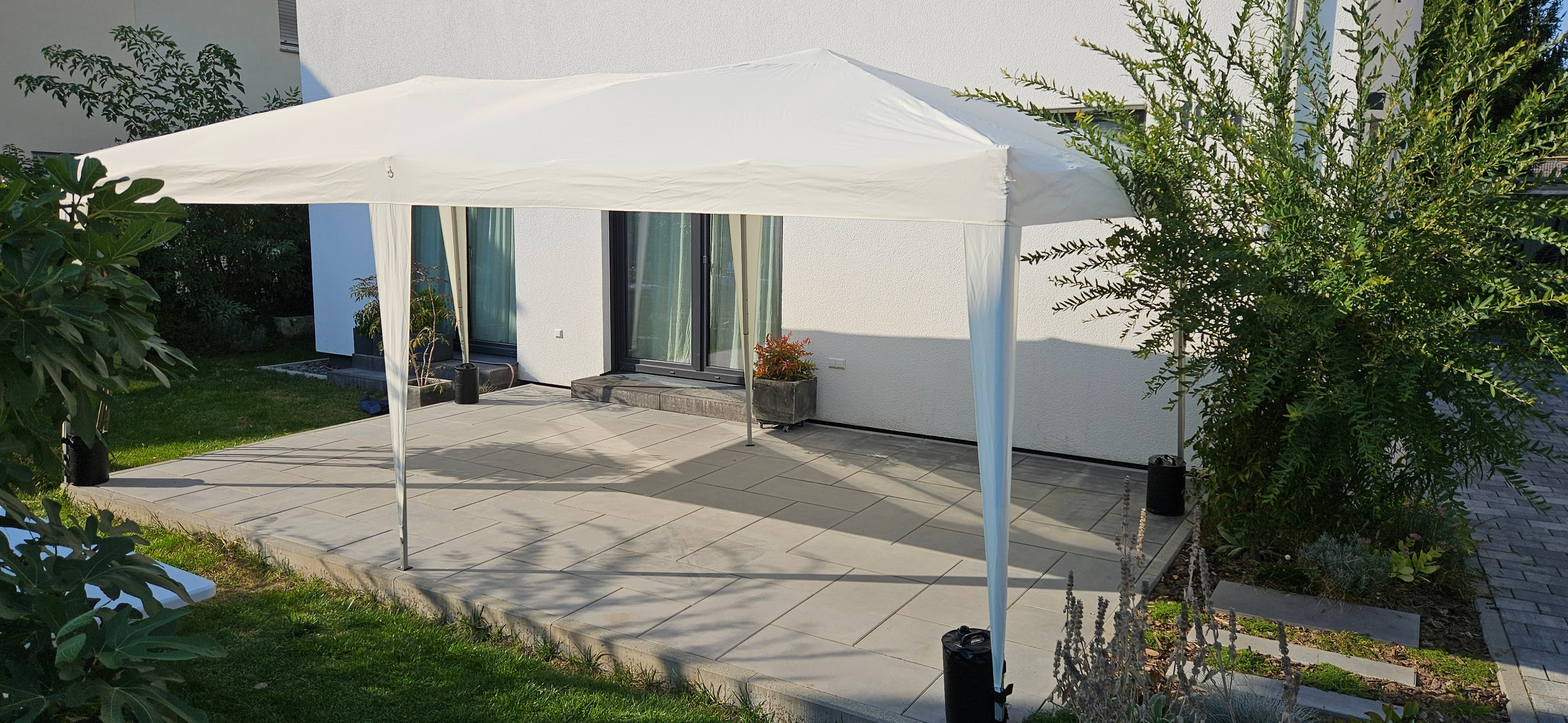
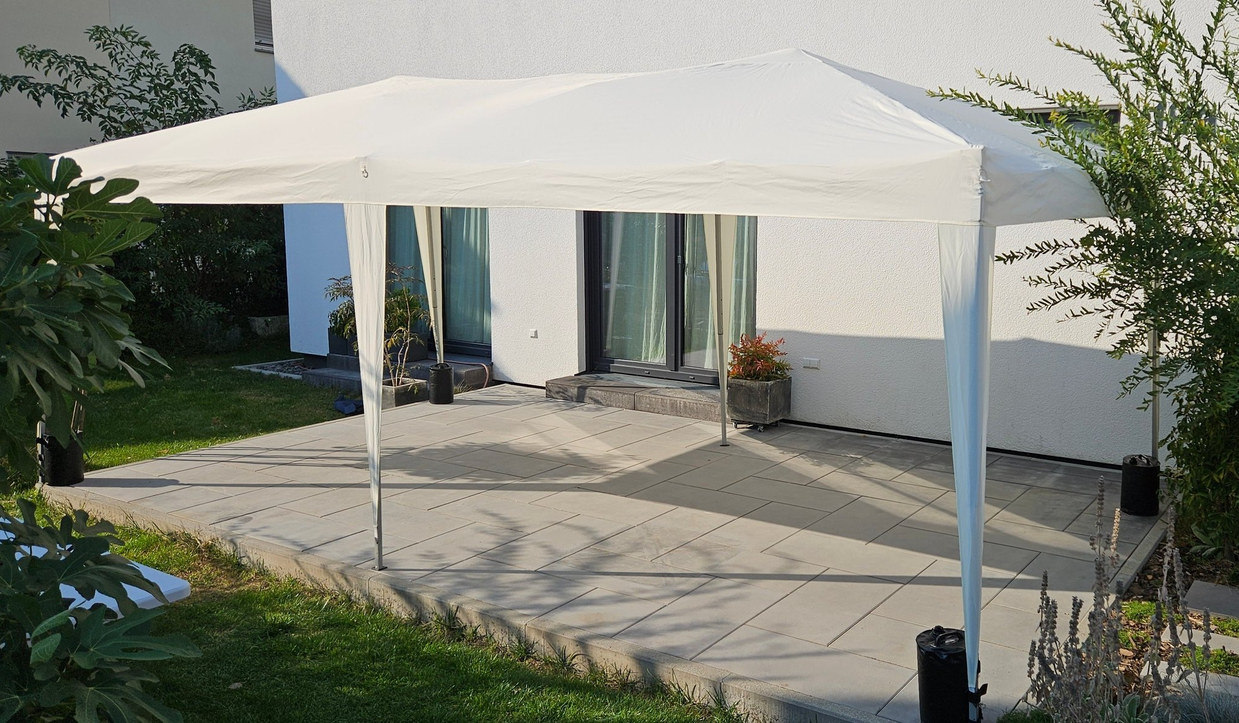
feat(sortiment): Buttons am Kartenboden, Tisch-Masse, aktualisierte Produktbilder

diff --git a/src/components/Sortiment.tsx b/src/components/Sortiment.tsx
@@ -48,7 +48,7 @@ const categories: Category[] = [
       },
       {
         name: "Seitenwand mit Reißverschluss",
-        image: "/images/products/seitenwand-reissverschluss-aussen.jpg",
+        image: "/images/products/seitenwand-reissverschluss-geschlossen.jpg",
         price: "2 €",
         priceUnit: "pro Miete (bis zu 5 Tage)",
       },
@@ -78,7 +78,7 @@ const categories: Category[] = [
     products: [
       {
         name: "Tisch",
-        description: "Platz für bis zu 8 Personen",
+        description: "Klappbar · 182 × 74 × 74 cm · Platz für bis zu 8 Personen",
         image: "/images/products/klapptisch.jpg",
         price: "12 €",
         priceUnit: "pro Miete (bis zu 5 Tage)",
@@ -157,7 +157,7 @@ function ProductCard({
 
   return (
     <div
-      className={`glass-card overflow-hidden group transition-all ${
+      className={`glass-card overflow-hidden group transition-all flex flex-col h-full ${
         qty > 0
           ? "border-gold-500/50 ring-1 ring-gold-500/20"
           : "hover:border-gold-500/30"
@@ -181,7 +181,7 @@ function ProductCard({
           </div>
         )}
       </button>
-      <div className="p-4 md:p-5">
+      <div className="p-4 md:p-5 flex flex-col flex-1">
         <h4 className="font-semibold text-white text-lg mb-1">
           {product.name}
         </h4>
@@ -195,49 +195,50 @@ function ProductCard({
           <span className="text-gray-500 text-xs">{product.priceUnit}</span>
         </div>
 
-        {/* Quantity Controls */}
-        {qty === 0 ? (
-          <button
-            onClick={() => addItem(product.name, product.price)}
-            className="w-full py-2 border border-gold-500/30 text-gold-400 text-sm font-medium rounded-lg hover:bg-gold-500/10 transition-all"
-          >
-            + Zur Anfrage hinzufügen
-          </button>
-        ) : (
-          <div className="flex items-center justify-between">
-            <button
-              onClick={() => removeItem(product.name)}
-              className="w-9 h-9 rounded-lg border border-white/10 text-white flex items-center justify-center hover:bg-white/10 transition-all"
-            >
-              <svg className="w-4 h-4" fill="none" stroke="currentColor" viewBox="0 0 24 24">
-                <path strokeLinecap="round" strokeLinejoin="round" strokeWidth={2} d="M20 12H4" />
-              </svg>
-            </button>
-            <span className="text-white font-semibold text-lg">{qty}</span>
+        <div className="mt-auto pt-3">
+          {qty === 0 ? (
             <button
               onClick={() => addItem(product.name, product.price)}
-              className="w-9 h-9 rounded-lg bg-gold-500 text-navy-900 flex items-center justify-center hover:bg-gold-400 transition-all"
+              className="w-full py-2 border border-gold-500/30 text-gold-400 text-sm font-medium rounded-lg hover:bg-gold-500/10 transition-all"
             >
-              <svg className="w-4 h-4" fill="none" stroke="currentColor" viewBox="0 0 24 24">
-                <path strokeLinecap="round" strokeLinejoin="round" strokeWidth={2} d="M12 4v16m8-8H4" />
-              </svg>
+              + Zur Anfrage hinzufügen
             </button>
-          </div>
-        )}
+          ) : (
+            <div className="flex items-center justify-between">
+              <button
+                onClick={() => removeItem(product.name)}
+                className="w-9 h-9 rounded-lg border border-white/10 text-white flex items-center justify-center hover:bg-white/10 transition-all"
+              >
+                <svg className="w-4 h-4" fill="none" stroke="currentColor" viewBox="0 0 24 24">
+                  <path strokeLinecap="round" strokeLinejoin="round" strokeWidth={2} d="M20 12H4" />
+                </svg>
+              </button>
+              <span className="text-white font-semibold text-lg">{qty}</span>
+              <button
+                onClick={() => addItem(product.name, product.price)}
+                className="w-9 h-9 rounded-lg bg-gold-500 text-navy-900 flex items-center justify-center hover:bg-gold-400 transition-all"
+              >
+                <svg className="w-4 h-4" fill="none" stroke="currentColor" viewBox="0 0 24 24">
+                  <path strokeLinecap="round" strokeLinejoin="round" strokeWidth={2} d="M12 4v16m8-8H4" />
+                </svg>
+              </button>
+            </div>
+          )}
 
-        {product.youtubeLink && (
-          <a
-            href={product.youtubeLink}
-            target="_blank"
-            rel="noopener noreferrer"
-            className="inline-flex items-center gap-1 text-gold-400 text-sm mt-3 hover:text-gold-500 transition-colors"
-          >
-            <svg className="w-4 h-4" fill="currentColor" viewBox="0 0 24 24">
-              <path d="M8 5v14l11-7z" />
-            </svg>
-            Aufbauanleitung
-          </a>
-        )}
+          {product.youtubeLink && (
+            <a
+              href={product.youtubeLink}
+              target="_blank"
+              rel="noopener noreferrer"
+              className="inline-flex items-center gap-1 text-gold-400 text-sm mt-3 hover:text-gold-500 transition-colors"
+            >
+              <svg className="w-4 h-4" fill="currentColor" viewBox="0 0 24 24">
+                <path d="M8 5v14l11-7z" />
+              </svg>
+              Aufbauanleitung
+            </a>
+          )}
+        </div>
       </div>
     </div>
   );
